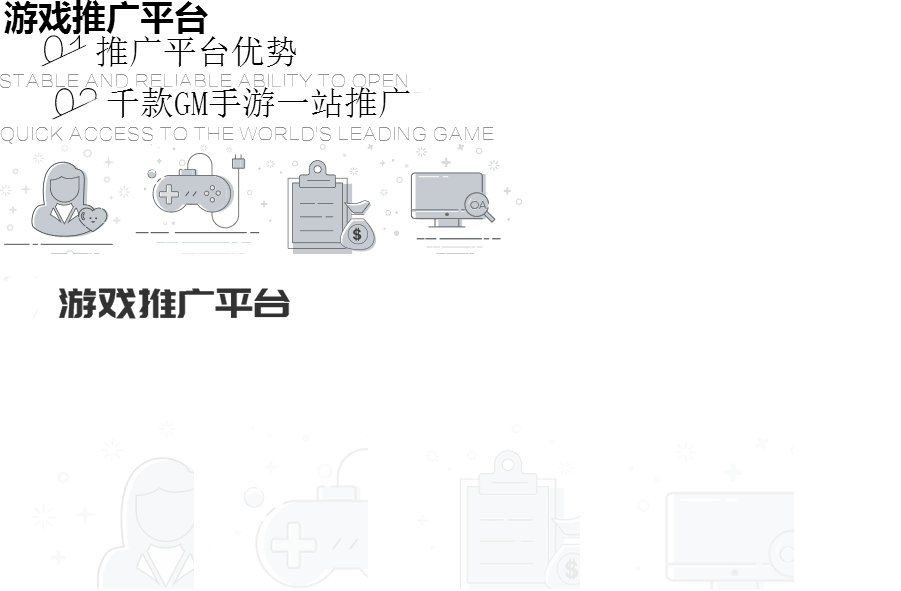
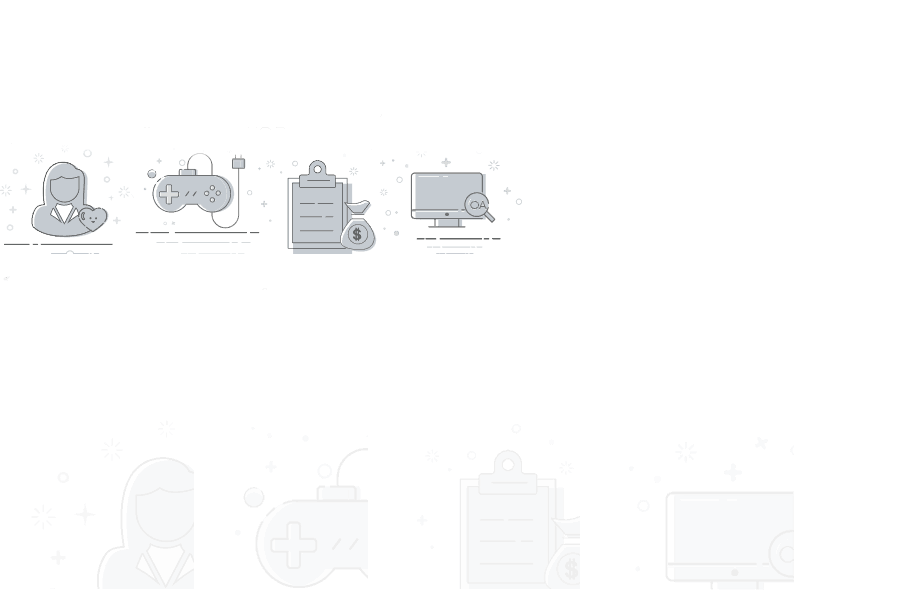
游戏充值验证

Changed region(s): [[0.0, 0.0, 0.5594, 0.2437], [0.0622, 0.4873, 0.3418, 0.5482]]

diff --git a/tg/dev/public/index/Index.Css b/tg/dev/public/index/Index.Css
@@ -84,7 +84,7 @@
 /* 功能说明 */
 .Index-Platform {
     width: 100%;
-    height: 550px;
+    height: auto;
     background: url(./Images/Content-Bj.jpg) center;
     border-bottom: 1px solid #f8f8f9;
     padding-top: 6px;
@@ -493,7 +493,7 @@
 
     .Index-Platform .Instructions {
         width: 90%;
-        height: 800px;
+        height: auto;
         background: #fff;
         box-shadow: 0px 0px 10px rgba(0, 0, 0, 0.08);
         margin: auto;

diff --git a/tg/dev/application/controllers/Index.php b/tg/dev/application/controllers/Index.php
@@ -8,7 +8,7 @@ class IndexController extends Yaf_Controller_Abstract
 //        $this->getView()->assign($info);
         $url=new F_Helper_Url();
         $channel_id=$url->getUrlSign();
-        if($channel_id){
+        if(!$channel_id){
             $info['channel_id']=$channel_id;
             $this->getView()->assign($info);
         }else{
